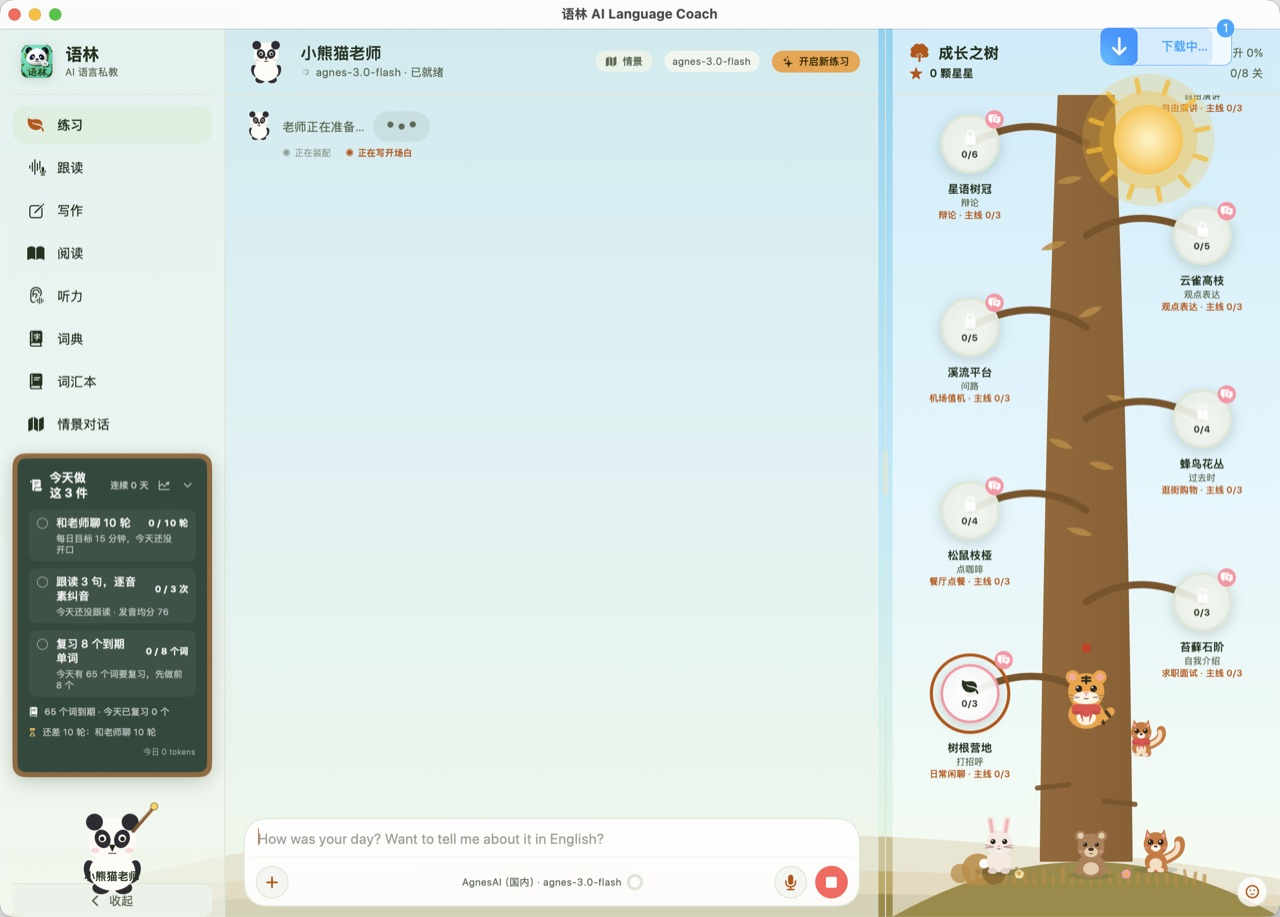
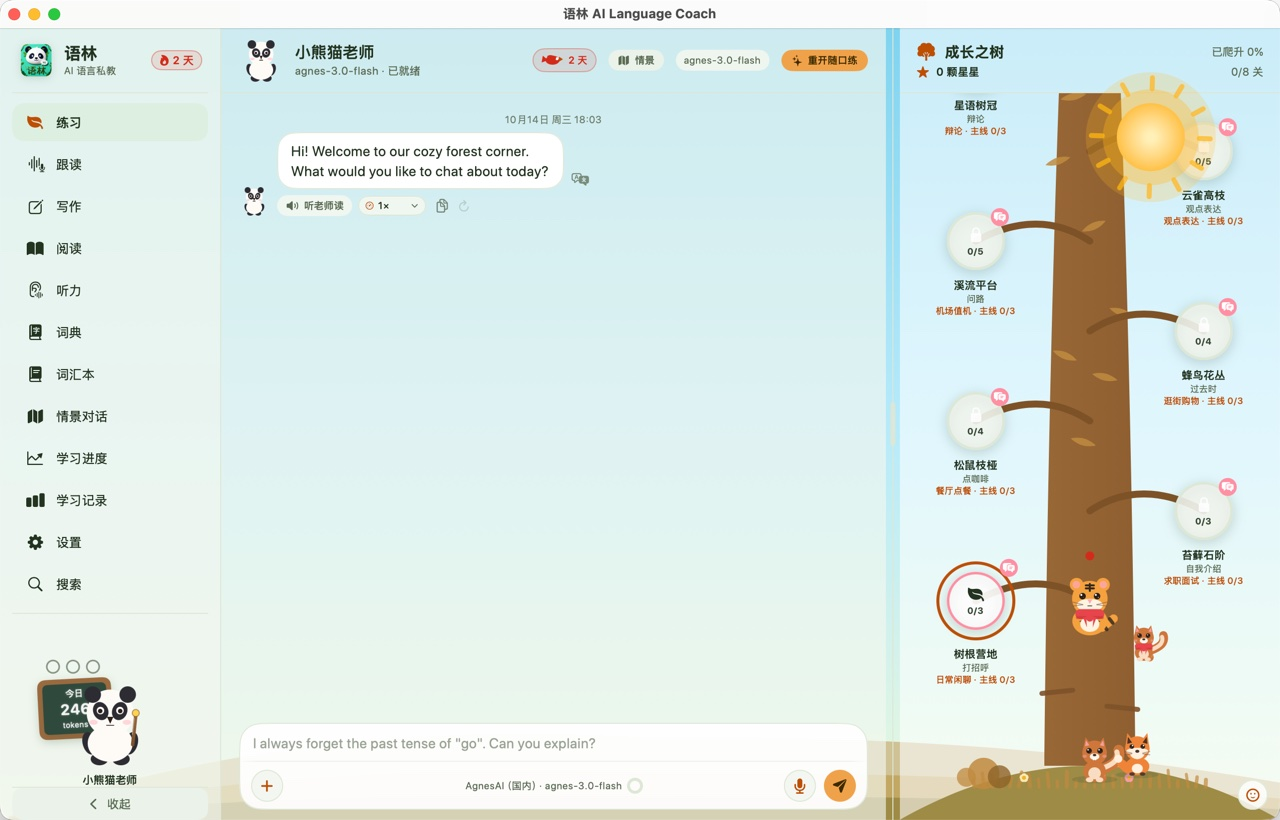
换掉全部发布截图：清悬浮球、修图文不符、补对话纠错卡
用户重截 6 张（public_pic/ 暂存，已加 .gitignore）：
- progress.jpg：原是 DeepSeek 开发对话截图（公开泄露开发过程）→ 真「学习进度」页
- shadowing.jpg：原是模糊窗口堆叠 → 真「跟读」页（86% 评分 + 发音评测 + 逐音素）
- dictionary.jpg：原是词汇本页 → 真「词典」页（音标/释义/搭配/例句）
- main-day/reading：内容本就对，重截去掉百度网盘「下载中」悬浮球
- chat.jpg（新增）：练习对话 + 三色语法纠错卡

README 表格标签此前贴错（练习对话→阅读页、阅读+划词→词汇本），
现按真实内容重排为 3 行 6 卡，补上词汇本与词典两格。
png 统一转 1280 宽 JPEG（q85），6 张共 1.3MB。

diff --git a/README.md b/README.md
@@ -27,13 +27,17 @@
   <img src="assets/screenshots/main-day.jpg" width="88%" alt="主界面：对话 + 成长之树">
 </p>
 
-| 练习对话 | 阅读 + 划词 |
+| 练习对话（带语法纠错卡） | 阅读 + 划词 |
 | :---: | :---: |
-| <img src="assets/screenshots/reading.jpg" width="100%"> | <img src="assets/screenshots/vocabulary.jpg" width="100%"> |
+| <img src="assets/screenshots/chat.jpg" width="100%"> | <img src="assets/screenshots/reading.jpg" width="100%"> |
 
 | 学习进度 | 跟读评分 |
 | :---: | :---: |
 | <img src="assets/screenshots/progress.jpg" width="100%"> | <img src="assets/screenshots/shadowing.jpg" width="100%"> |
+
+| 词汇本 | 词典查询 |
+| :---: | :---: |
+| <img src="assets/screenshots/vocabulary.jpg" width="100%"> | <img src="assets/screenshots/dictionary.jpg" width="100%"> |
 
 ## 功能清单
 
